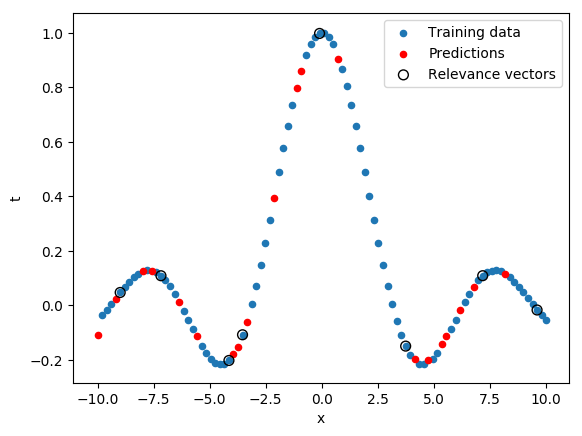
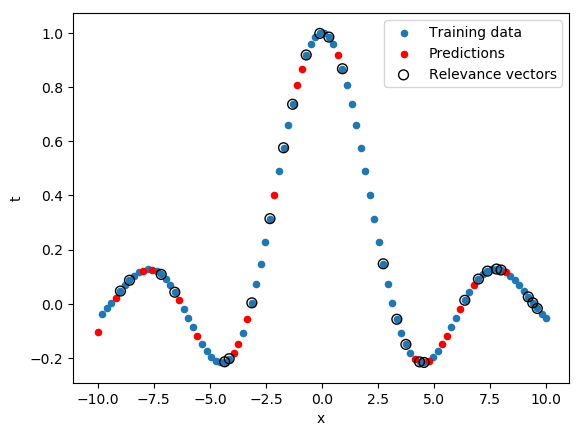
Update: Merged the rvr and the rvc Fixed merging issues in the pruning function

diff --git a/src/rvm.py b/src/rvm.py
@@ -5,7 +5,8 @@
 __author__ = "Adrian Chiemelewski-Anders, Clara Tump, Bas Straathof \
               and Leo Zeitler"
 
-from kernels import linearKernel, linearSplineKernel, polynomialKernel, RBFKernel
+from kernels import linearKernel, linearSplineKernel, polynomialKernel, RBFKernel, cosineKernel
+
 from scipy.optimize import minimize
 from scipy.special import expit
 
@@ -56,7 +57,7 @@ class RVM:
         self.T = T
         self.N = np.shape(X)[0]
         self.phi = self._initPhi(X)
-        self.relevanceVectors = X
+        self.relevanceVectors = np.copy(X)
 
         self.beta = beta
         self.convergenceThresh = convergenceThresh
@@ -85,6 +86,9 @@ class RVM:
         elif self.kernelName == 'polynomialKernel':
             return polynomialKernel, self.p
 
+        elif self.kernelName == 'cosineKernel':
+            return cosineKernel, None
+
     def rvm_output(self, unseen_x):
         """
         Calculate the output of the rvm for an unseen data point
@@ -93,11 +97,13 @@ class RVM:
         """
         kernel, args = self._get_kernel_function()
         kernel_output = [kernel(unseen_x, x_i, args) for x_i in self.relevanceVectors]
-        # if bias was not pruned
-        if self.muPosterior.shape[0] == np.asarray(kernel_output)[0] + 1:
+        kernel_output = np.asarray(kernel_output)
+        if kernel_output.shape[0] + 1 == self.muPosterior.shape[0]:
             kernel_output = np.insert(kernel_output, 0, 1)
+        elif kernel_output.shape[0] != self.muPosterior.shape[0]:
+            raise RuntimeError
 
-        return np.asarray(kernel_output).dot(self.muPosterior)
+        return kernel_output.dot(self.muPosterior)
 
     def _setCovAndMu(self):
         """
@@ -131,7 +137,7 @@ class RVM:
 
         return PHI
 
-    def _prune(self):
+    def _prune(self, alphaOld):
         """
         Prunes alpha such that only relevant weights are kept
         """
@@ -157,6 +163,8 @@ class RVM:
         self.alpha = self.alpha[useful]
         self.covPosterior = self.covPosterior[np.ix_(useful, useful)]
         self.muPosterior = self.muPosterior[useful]
+
+        return alphaOld[useful]
 
     def _reestimateAlphaBeta(self):
         """
@@ -201,7 +209,7 @@ class RVR(RVM):
             alphaOld = np.array(self.alpha)
 
             self._reestimateAlphaBeta()
-            self._prune()
+            self._prune(alphaOld)
             self._posterior()
 
             if abs(sum(self.alpha) - sum(alphaOld)) <= self.convergenceThresh:
@@ -228,10 +236,41 @@ class RVC(RVM):
     """
 
     def irls(self):
-        pass
+        a = np.diag(self.alpha)
+        weights_old = np.full(self.muPosterior.shape, np.inf)
+
+        second_derivative = None
+        iters = 0
+        while iters < 30 and np.linalg.norm(self.muPosterior - weights_old) >= self.convergenceThresh:
+            recent_likelihood, sigmoid = self._likelihood()
+            recent_likelihood_matrix = np.diag(recent_likelihood)
+            second_derivative = -(np.dot(self.phi.transpose().dot(recent_likelihood_matrix), self.phi) + a)
+            first_derivative = self.phi.transpose().dot(self.T - sigmoid) - a.dot(self.muPosterior)
+
+            weights_old = np.copy(self.muPosterior)
+            self.muPosterior -= self.learningRate * np.linalg.solve(second_derivative, first_derivative)
+            print(np.linalg.norm(self.muPosterior - weights_old))
+
+            iters += 1
+        print('Iterations used: ', iters)
+        self.covPosterior = np.linalg.inv(-second_derivative)
 
     def _likelihood(self):
-        pass
+        """
+        Classify a data point
+
+        Args:
+        X (numpy.ndarray): datapoints
+
+        Returns:
+        sigmoid (numpy.ndarray): the sigmoid of the dot product of the weights with the
+                         design matrix
+
+        """
+        sigmoid = np.asarray([ 1 / (1 + np.exp(-self.rvm_output(x))) for x in self.relevanceVectors])
+        beta = np.multiply(sigmoid, np.ones(sigmoid.shape) - sigmoid)
+
+        return beta, sigmoid
 
     def _posterior(self, weights_new):
         pass
@@ -240,7 +279,35 @@ class RVC(RVM):
         pass
 
     def fit(self):
-        pass
+        alphaOld = 0 * np.ones(self.N + 1)
+
+        iters = 0
+        while np.linalg.norm(self.alpha - alphaOld) >= self.convergenceThresh\
+                and iters < 10:
+            alphaOld = np.array(self.alpha)
+
+            self.irls()
+            # optRes = minimize(self._posterior, np.random.randn(self.muPosterior.shape[0]), jac=self._posteriorGradient)
+            # self.muPosterior = optRes.x
+            # recent_likelihood, sigmoid = self._likelihood()
+            # recent_likelihood_matrix = np.diag(recent_likelihood)
+            # second_derivative = -(np.dot(
+            #     self.phi.transpose().dot(recent_likelihood_matrix),
+            #     self.phi) + np.diag(self.alpha))
+            #
+            # self.covPosterior = np.linalg.inv(-second_derivative)
+
+            self._reestimatingAlphaBeta()
+            alphaOld = self._prune(alphaOld)
+            #print(np.linalg.norm(self.alpha - alphaOld))
+            iters += 1
 
     def predict(self, unseen_x):
-        pass
+        """
+        Make predictions for unseen data
+        :param unseen_x: unseen data (np.array)
+        :return: prediction values and
+        """
+        return np.asarray(
+            [1.0/(1.0+math.exp(-self.rvm_output(x))) for x in unseen_x]
+        )

diff --git a/src/kernels.py b/src/kernels.py
@@ -20,7 +20,7 @@ def linearKernel(x, y, *args):
     *args (none)
 
     """
-    return x.T * y
+    return np.dot(x, y)
 
 
 def linearSplineKernel(x, y, *args):
@@ -48,7 +48,7 @@ def polynomialKernel(x, y, *args):
     *args (int): the degree of the polynomial
 
     """
-    return math.pow(x.T * y + 1, args[0])
+    return math.pow(np.dot(x,y) + 1, args[0])
 
 
 def RBFKernel(x, y, *args):
@@ -65,3 +65,6 @@ def RBFKernel(x, y, *args):
 
     return math.exp(- num / denom)
 
+
+def cosineKernel(x, y, *args):
+    return (np.pi / 4.0) * np.cos(np.pi * 0.5 * np.linalg.norm(x - y))
